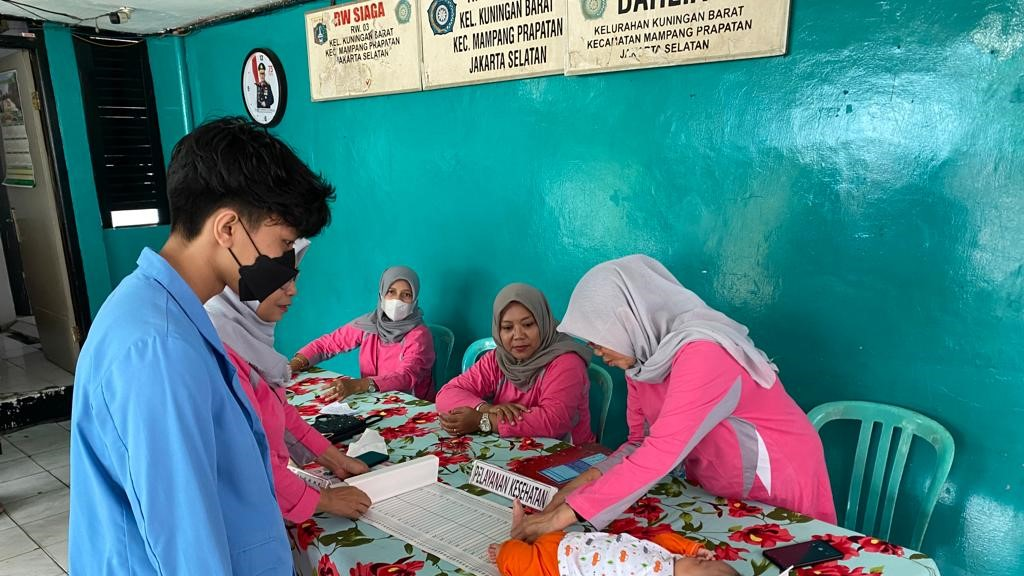
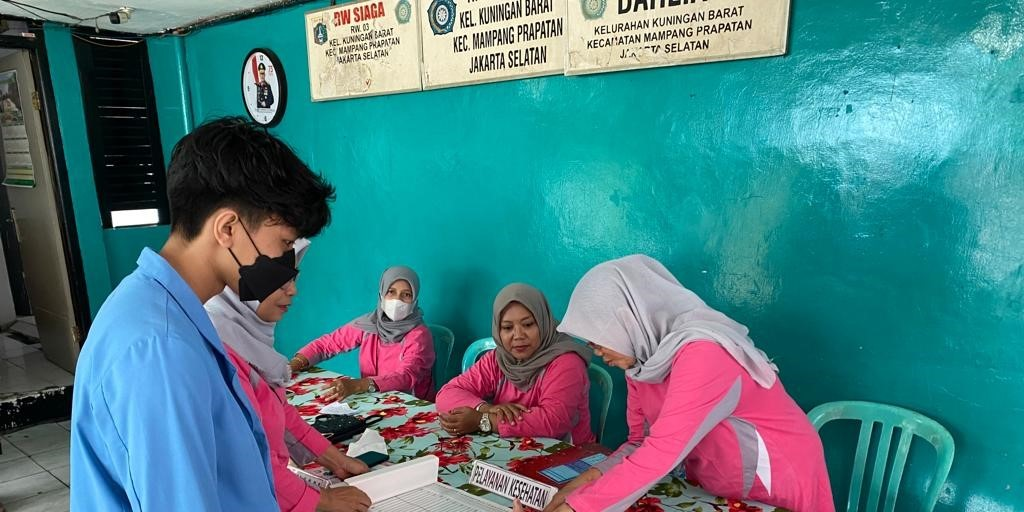
tambahan dan perubahan pada isi portfolio 4

diff --git a/projects.html b/projects.html
@@ -73,7 +73,7 @@
     <div class="col-md-4 mb-3">
       <div class="card">
         <a href="#" class="text-decoration-none text-reset">
-        <img src="img/proj/doku2.jpg" class="img-fluid" style="width: 200px; height: 200px;">
+        <img src="img/proj/doku2.jpg" class="img-fluid">
         <div class="container-card">
           <h4><b>4</b></h4>
           <p>Dokumentasi selama proses pembuatan aplikasi android Posyandu Dahlia Kuningan Barat</p>
